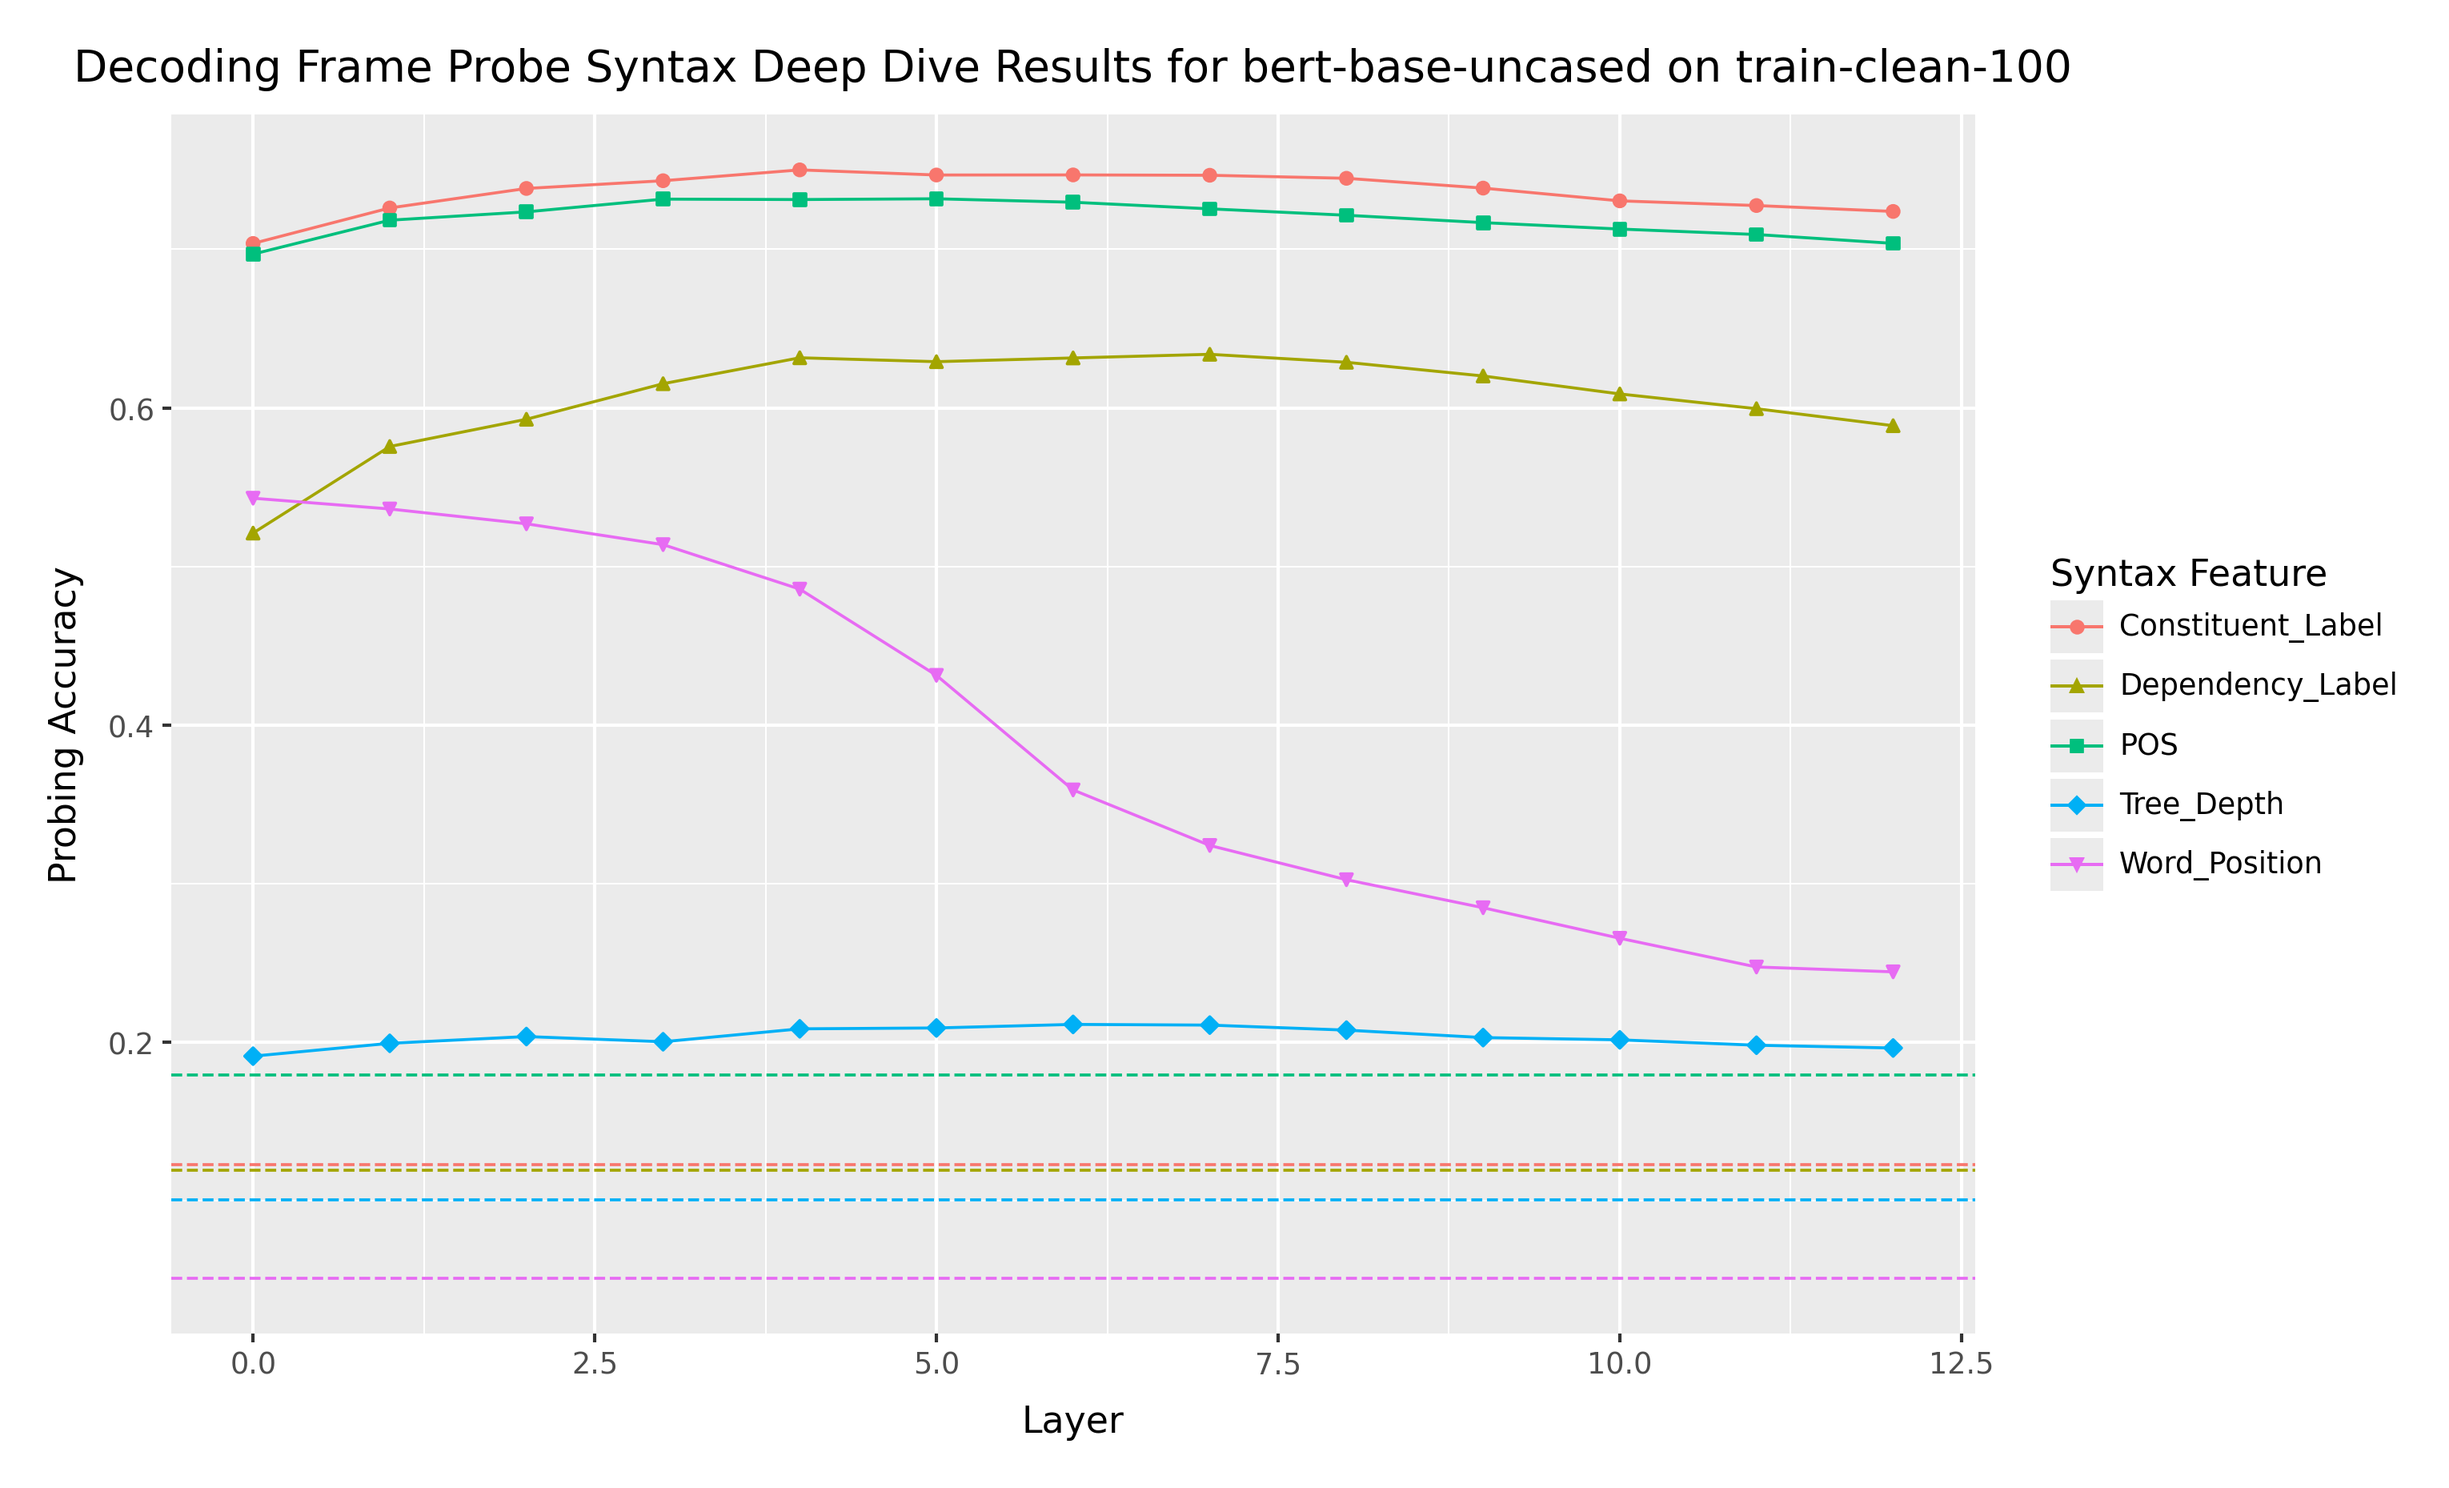
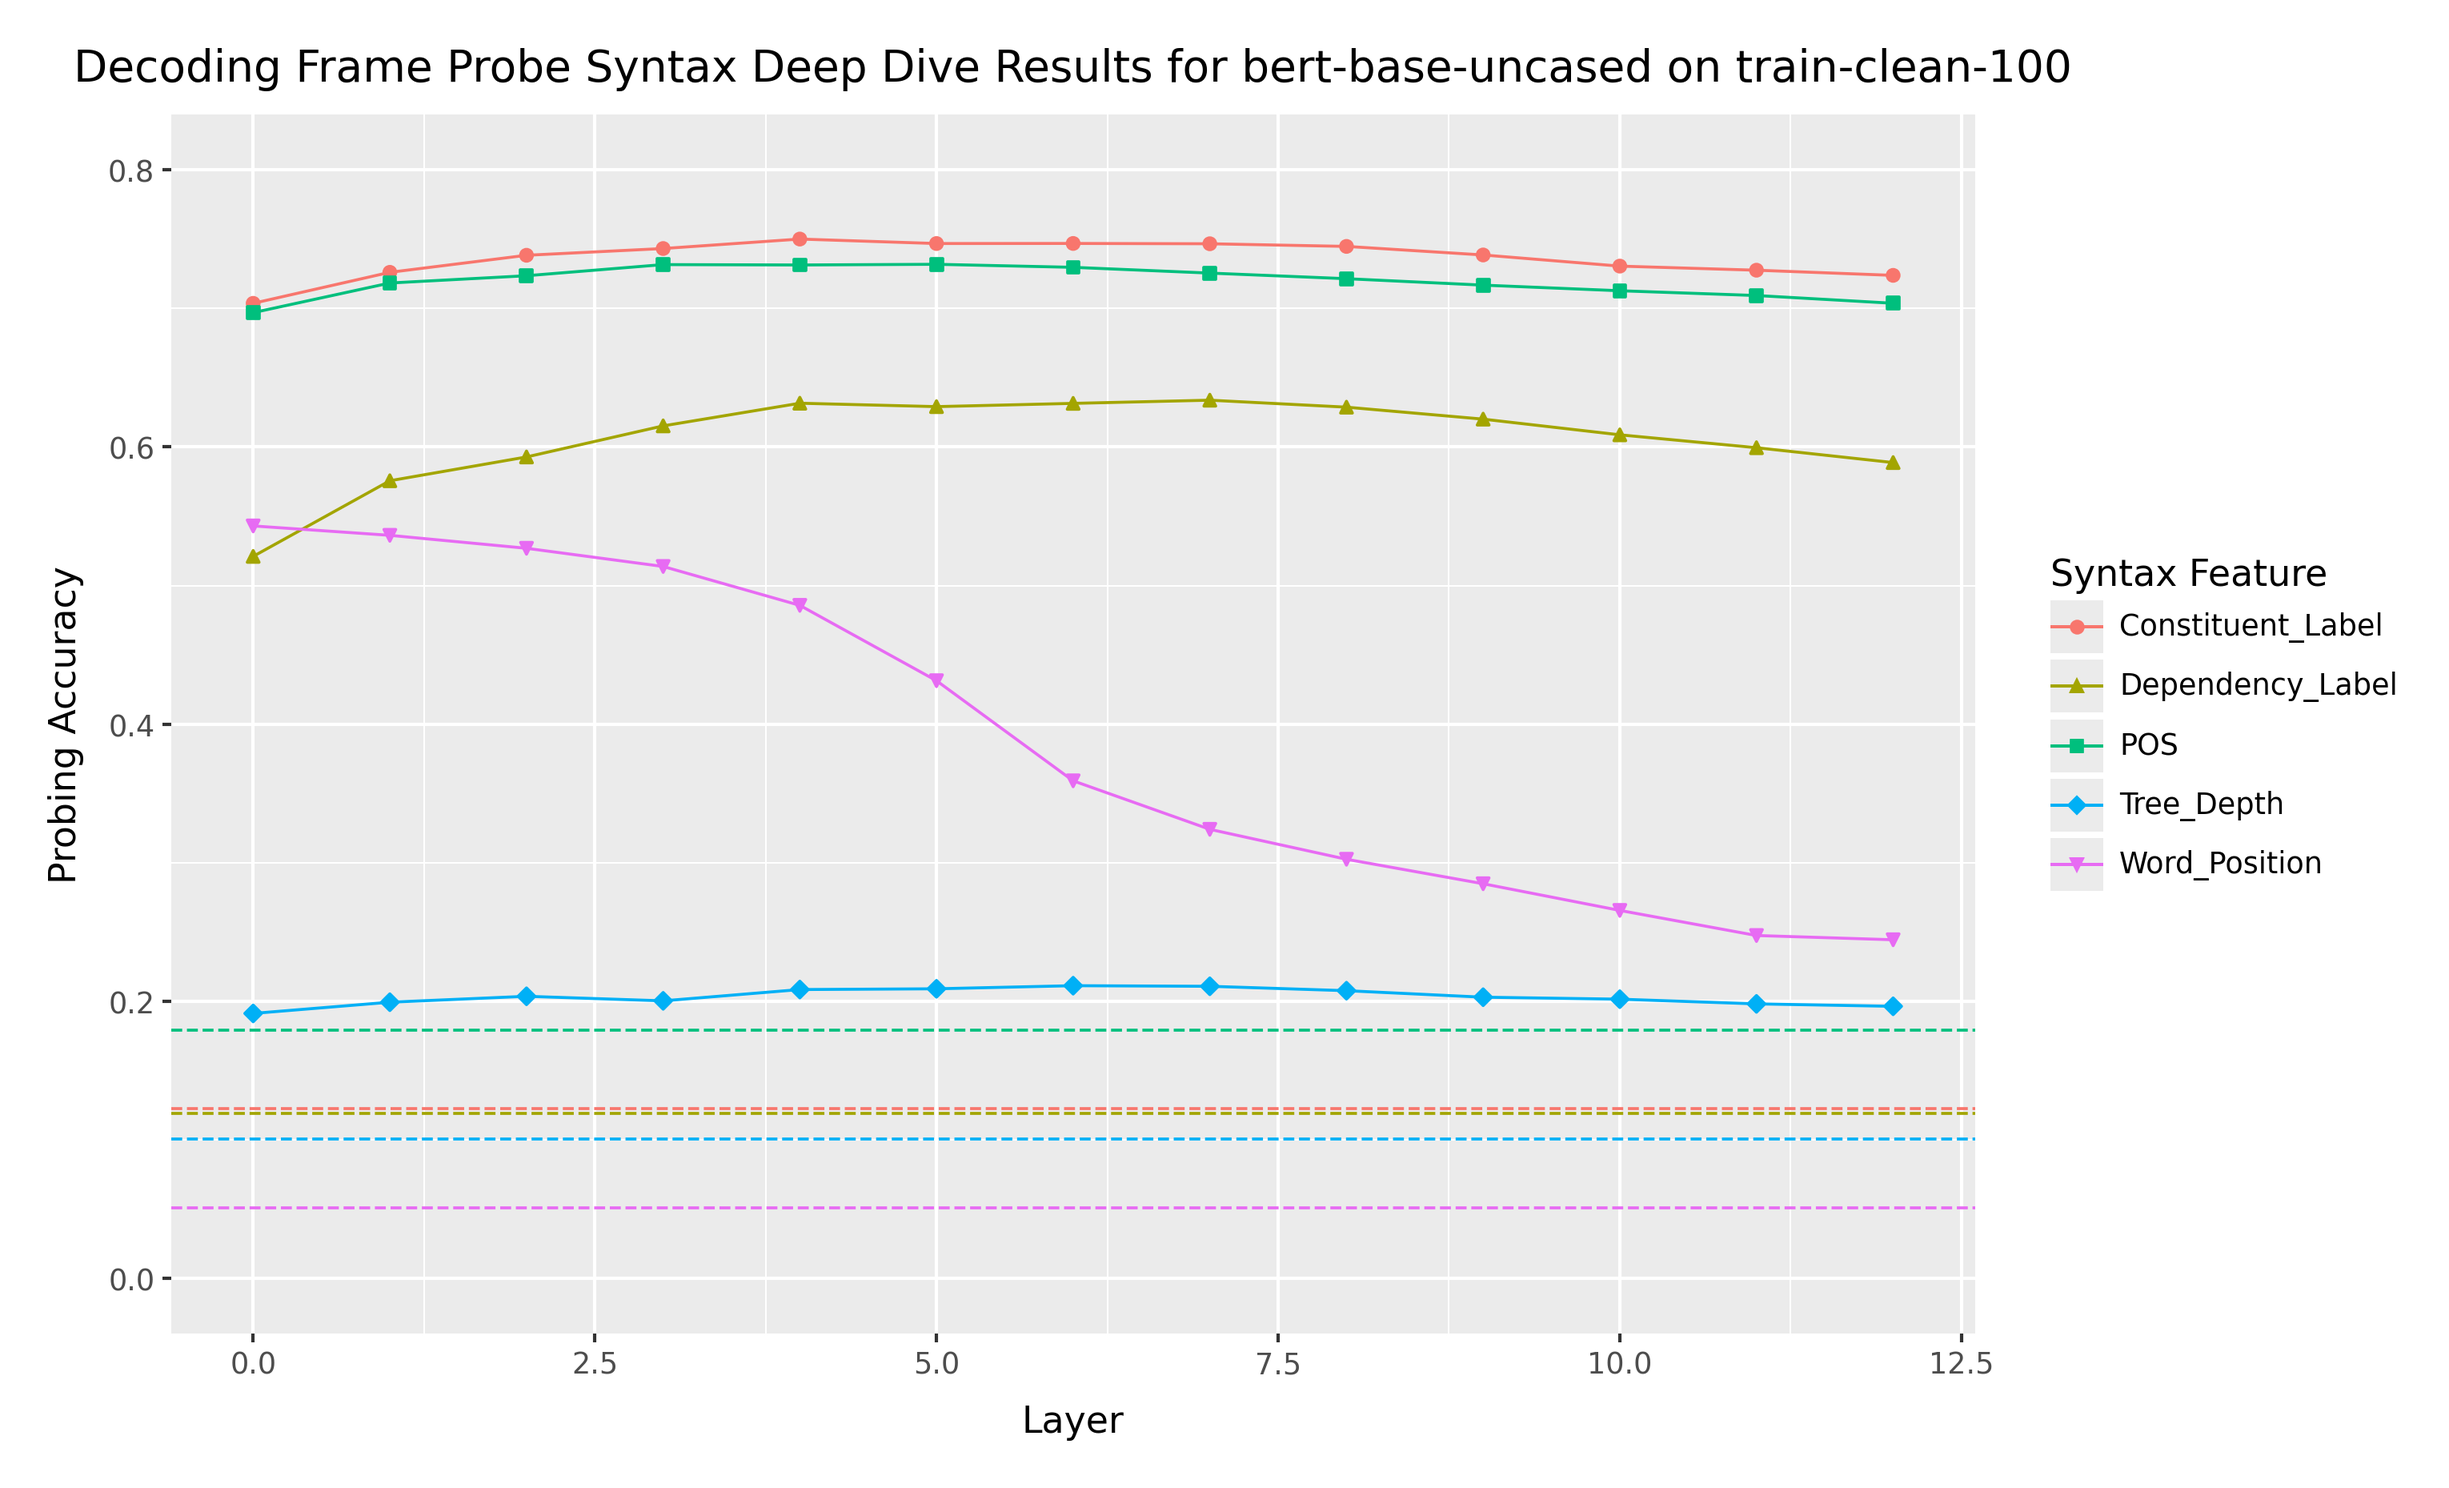
improve figure reporting

diff --git a/src/decoding_frame_probe.py b/src/decoding_frame_probe.py
@@ -1,5 +1,6 @@
 import logging
 import os
+import pickle
 import sys
 
 import numpy as np
@@ -369,7 +370,58 @@ def main():
         filename_timestamp=filename_timestamp,
         probe_name=probe_name,
     )
+    # Save results
+    with open(
+        f"{RESULTS_ROOT}/decoding_frame_probe_results_{modelname}_{librispeech_split}.pickle",
+        "wb",
+    ) as f:
+        pickle.dump(results, f)
 
+    all_results_plot = plot_normal_results(modelname, librispeech_split)
+
+    if syntax_deep_dive_flag is True:
+        logger.info("Running syntax deep dive analysis...")
+
+        # Switch feature loading
+        feature_sets, model_hidden_states, filename_timestamp, data_shape = load_data(
+            librispeech_split=librispeech_split,
+            modelname=modelname,
+            seq_sampling="random_frames",
+            select_layers=select_layers,
+            overwrite=False,
+            reduce_dnn_word_embedding=False,
+            one_hot_encode_syntax=False,
+            normalize_features=normalize_features,
+        )
+
+        probeclassifier_name = probe_name + "_classifier"
+
+        syntax_results = syntax_deep_dive(
+            model_hidden_states=model_hidden_states,
+            feature_sets=feature_sets,
+            data_shape=data_shape,
+            filename_timestamp=filename_timestamp,
+            probeclassifier_name=probeclassifier_name,
+        )
+        # Save syntax results
+        with open(
+            f"{RESULTS_ROOT}/decoding_frame_probe_syntax_deep_dive_{modelname}_{librispeech_split}.pickle",
+            "wb",
+        ) as f:
+            pickle.dump(syntax_results, f)
+
+        syntax_results_plot = plot_syntax_results(modelname, librispeech_split)
+
+        all_results_plot.show()
+        syntax_results_plot.show()
+
+
+def plot_normal_results(modelname: str, librispeech_split: str):
+    with open(
+        f"{RESULTS_ROOT}/decoding_frame_probe_results_{modelname}_{librispeech_split}.pickle",
+        "rb",
+    ) as f:
+        results = pickle.load(f)
     results_df = pd.DataFrame(results)
     rename_feature_group = {
         "OtherAcoustic": "Other Acoustic Features",
@@ -416,87 +468,73 @@ def main():
         f"{RESULTS_ROOT}/decoding_frame_probe_results_{modelname}_{librispeech_split}.csv",
         index=False,
     )
-    if syntax_deep_dive_flag is True:
-        logger.info("Running syntax deep dive analysis...")
 
-        # Switch feature loading
-        feature_sets, model_hidden_states, filename_timestamp, data_shape = load_data(
-            librispeech_split=librispeech_split,
-            modelname=modelname,
-            seq_sampling="random_frames",
-            select_layers=select_layers,
-            overwrite=False,
-            reduce_dnn_word_embedding=False,
-            one_hot_encode_syntax=False,
-            normalize_features=normalize_features,
+    return all_results_plot
+
+
+def plot_syntax_results(modelname: str, librispeech_split: str):
+    with open(
+        f"{RESULTS_ROOT}/decoding_frame_probe_syntax_deep_dive_{modelname}_{librispeech_split}.pickle",
+        "rb",
+    ) as f:
+        syntax_results = pickle.load(f)
+
+    # plot syntax deep dive results
+    syntax_results_df = pd.DataFrame(syntax_results)
+
+    syntax_results_baseline = syntax_results_df[
+        syntax_results_df["layer"] == -1
+    ].reset_index(drop=True)
+    # Rename feature groups for better plotting
+    syntax_results_baseline["feature_group"] = syntax_results_baseline[
+        "feature_group"
+    ].str.replace("_baseline", "")
+    syntax_results_df = syntax_results_df[syntax_results_df["layer"] != -1]
+
+    syntax_results_plot = (
+        p9.ggplot(
+            syntax_results_df,
+            p9.aes(
+                x="layer",
+                y="accuracy",
+                color="feature_group",
+                shape="feature_group",
+            ),
         )
-
-        probeclassifier_name = probe_name + "_classifier"
-
-        syntax_results = syntax_deep_dive(
-            model_hidden_states=model_hidden_states,
-            feature_sets=feature_sets,
-            data_shape=data_shape,
-            filename_timestamp=filename_timestamp,
-            probeclassifier_name=probeclassifier_name,
+        + p9.geom_line()
+        + p9.geom_point()
+        + p9.ggtitle(
+            f"Decoding Frame Probe Syntax Deep Dive Results for {modelname} on {librispeech_split}"
         )
-
-        # plot syntax deep dive results
-        syntax_results_df = pd.DataFrame(syntax_results)
-
-        syntax_results_baseline = syntax_results_df[
-            syntax_results_df["layer"] == -1
-        ].reset_index(drop=True)
-        # Rename feature groups for better plotting
-        syntax_results_baseline["feature_group"] = syntax_results_baseline[
-            "feature_group"
-        ].str.replace("_baseline", "")
-        syntax_results_df = syntax_results_df[syntax_results_df["layer"] != -1]
-
-        syntax_results_plot = (
-            p9.ggplot(
-                syntax_results_df,
-                p9.aes(
-                    x="layer",
-                    y="accuracy",
-                    color="feature_group",
-                    shape="feature_group",
-                ),
-            )
-            + p9.geom_line()
-            + p9.geom_point()
-            + p9.ggtitle(
-                f"Decoding Frame Probe Syntax Deep Dive Results for {modelname} on {librispeech_split}"
-            )
-            + p9.xlab("Layer")
-            + p9.ylab("Probing Accuracy")
-            + p9.theme(legend_position="right")
-            + p9.scale_color_discrete(name="Syntax Feature")
-            + p9.scale_shape_discrete(name="Syntax Feature")
-            + p9.theme(figure_size=(10, 6), dpi=300)
-            + p9.geom_hline(
-                p9.aes(
-                    yintercept="accuracy",
-                    color="feature_group",
-                ),
-                data=syntax_results_baseline,
-                show_legend=True,
-                linetype="dashed",
-            )
+        + p9.xlab("Layer")
+        + p9.ylab("Probing Accuracy")
+        + p9.theme(legend_position="right")
+        + p9.scale_color_discrete(name="Syntax Feature")
+        + p9.scale_shape_discrete(name="Syntax Feature")
+        + p9.theme(figure_size=(10, 6), dpi=300)
+        # Set the y-axis limits to 0 to 1
+        + p9.ylim(0, 0.8)
+        + p9.geom_hline(
+            p9.aes(
+                yintercept="accuracy",
+                color="feature_group",
+            ),
+            data=syntax_results_baseline,
+            show_legend=True,
+            linetype="dashed",
         )
-        # Save the plot
-        syntax_results_plot.save(
-            filename=f"{RESULTS_ROOT}/figures/decoding_frame_probe_syntax_deep_dive_{modelname}_{librispeech_split}.png",
-            bbox_inches="tight",
-        )
+    )
+    # Save the plot
+    syntax_results_plot.save(
+        filename=f"{RESULTS_ROOT}/figures/decoding_frame_probe_syntax_deep_dive_{modelname}_{librispeech_split}.png",
+        bbox_inches="tight",
+    )
 
-        syntax_results_df.to_csv(
-            f"{RESULTS_ROOT}/decoding_frame_probe_syntax_deep_dive_{modelname}_{librispeech_split}.csv",
-            index=False,
-        )
-
-        all_results_plot.show()
-        syntax_results_plot.show()
+    syntax_results_df.to_csv(
+        f"{RESULTS_ROOT}/decoding_frame_probe_syntax_deep_dive_{modelname}_{librispeech_split}.csv",
+        index=False,
+    )
+    return syntax_results_plot
 
 
 if __name__ == "__main__":

diff --git a/src/target_experiment_syntax_lexical.py b/src/target_experiment_syntax_lexical.py
@@ -611,14 +611,21 @@ def check_lexical_information():
         train_score = GS.score(X_train, y_train)
         test_score = GS.score(X_test, y_test)
 
+        # Establish a baseline by predicting the majority class
+        classes_, counts = np.unique(y_train, return_counts=True)
+        majority_class = classes_[np.argmax(counts)]
+        baseline_test_accuracy = np.mean(y_test == majority_class)
+
         results.append(
             {
                 "syntax_feature": syntax_feature_name,
                 "train_score": train_score,
                 "test_score": test_score,
                 "best_params": GS.best_params_,
+                "baseline_test_accuracy": baseline_test_accuracy,
             }
         )
+
     results_df = pd.DataFrame(results)
     results_savepath = os.path.join(
         RESULTS_ROOT,
